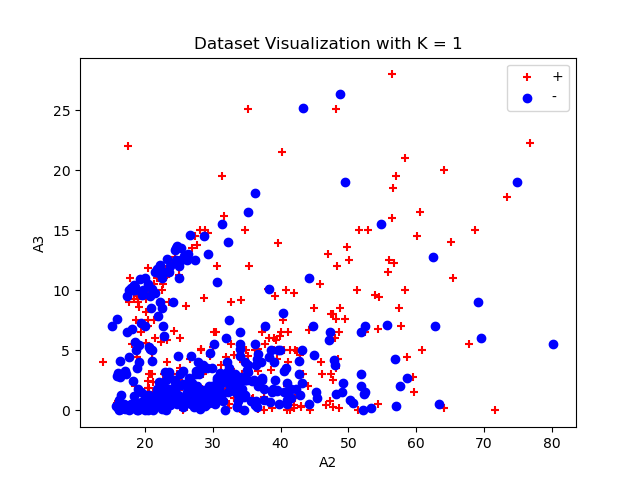
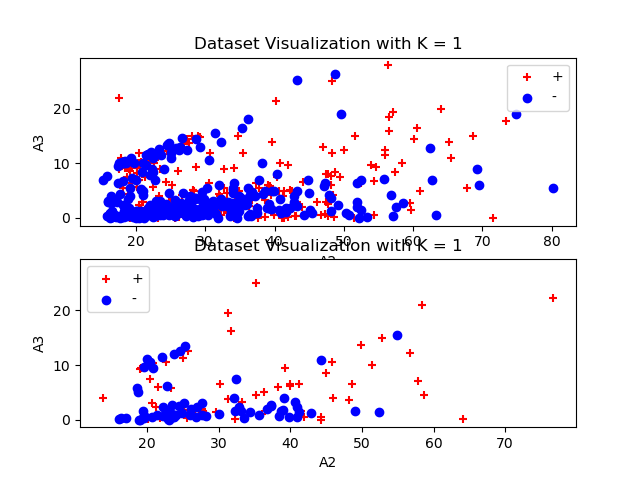
update visualization

diff --git a/knn.py b/knn.py
@@ -34,11 +34,11 @@ ax.legend()
 # plt.show()
 
 # store the plot
-plt.savefig('dataset/dataset_visualization.png')
+# plt.savefig('dataset/dataset_visualization.png')
 
 # get train dan test data
-X_train, X_test, y_train, y_test = train_test_split(data_X, data_y, test_size=0.2, random_state=21)
-
+X_train, X_test, y_train, y_test = train_test_split(data_X, data_y, test_size=0.2, random_state=1)
+# print (X_train, y_train, X_test, y_test)
 def delete_multiple_lines(n=1):
     """Delete the last line in the STDOUT."""
     for _ in range(n):
@@ -85,6 +85,7 @@ def knn(x_train, y_train, x_test, actual=pd.DataFrame(), k=3, mode='test'):
             y_pred = result_child['y'].mode()[0]
             # add y_pred to result
             y_result.loc[i] = [y_pred]
+        print(y_result)
             
         # get accuracy from actual
         if (actual.shape[0] == y_result.shape[0]):
@@ -109,13 +110,20 @@ for k in k_list:
     y_result.to_csv(f'result/knn_k_{k}.csv', index=False)
 
     # plot result and store to png
-    fig, ax = plt.subplots()
-    ax.scatter(data[data['A16'] == 1]['A2'], data[data['A16'] == 1]['A3'], c='red', marker='+', label="+")
-    ax.scatter(data[data['A16'] == 0]['A2'], data[data['A16'] == 0]['A3'], c='blue', marker='o', label="-")
-    ax.set_xlabel('A2')
-    ax.set_ylabel('A3')
-    ax.set_title(f'Dataset Visualization with K = {k}')
-    ax.legend()
+    fig, ax = plt.subplots(nrows=2, sharey=True)
+    ax[0].scatter(X_train[y_train == 1]['A2'], X_train[y_train == 1]['A3'], c='red', marker='+', label="+")
+    ax[0].scatter(X_train[y_train == 0]['A2'], X_train[y_train == 0]['A3'], c='blue', marker='o', label="-")
+    ax[0].set_xlabel('A2')
+    ax[0].set_ylabel('A3')
+    ax[0].set_title(f'Dataset Visualization with K = {k}')
+    ax[0].legend()
+    
+    ax[1].scatter(X_test[y_test == 1]['A2'], X_test[y_test == 1]['A3'], c='red', marker='+', label="+")
+    ax[1].scatter(X_test[y_test == 0]['A2'], X_test[y_test == 0]['A3'], c='blue', marker='o', label="-")
+    ax[1].set_xlabel('A2')
+    ax[1].set_ylabel('A3')
+    ax[1].set_title(f'Dataset Visualization with K = {k}')
+    ax[1].legend()
     plt.savefig(f'result/knn_k_{k}.png')
 
     print('\n')
